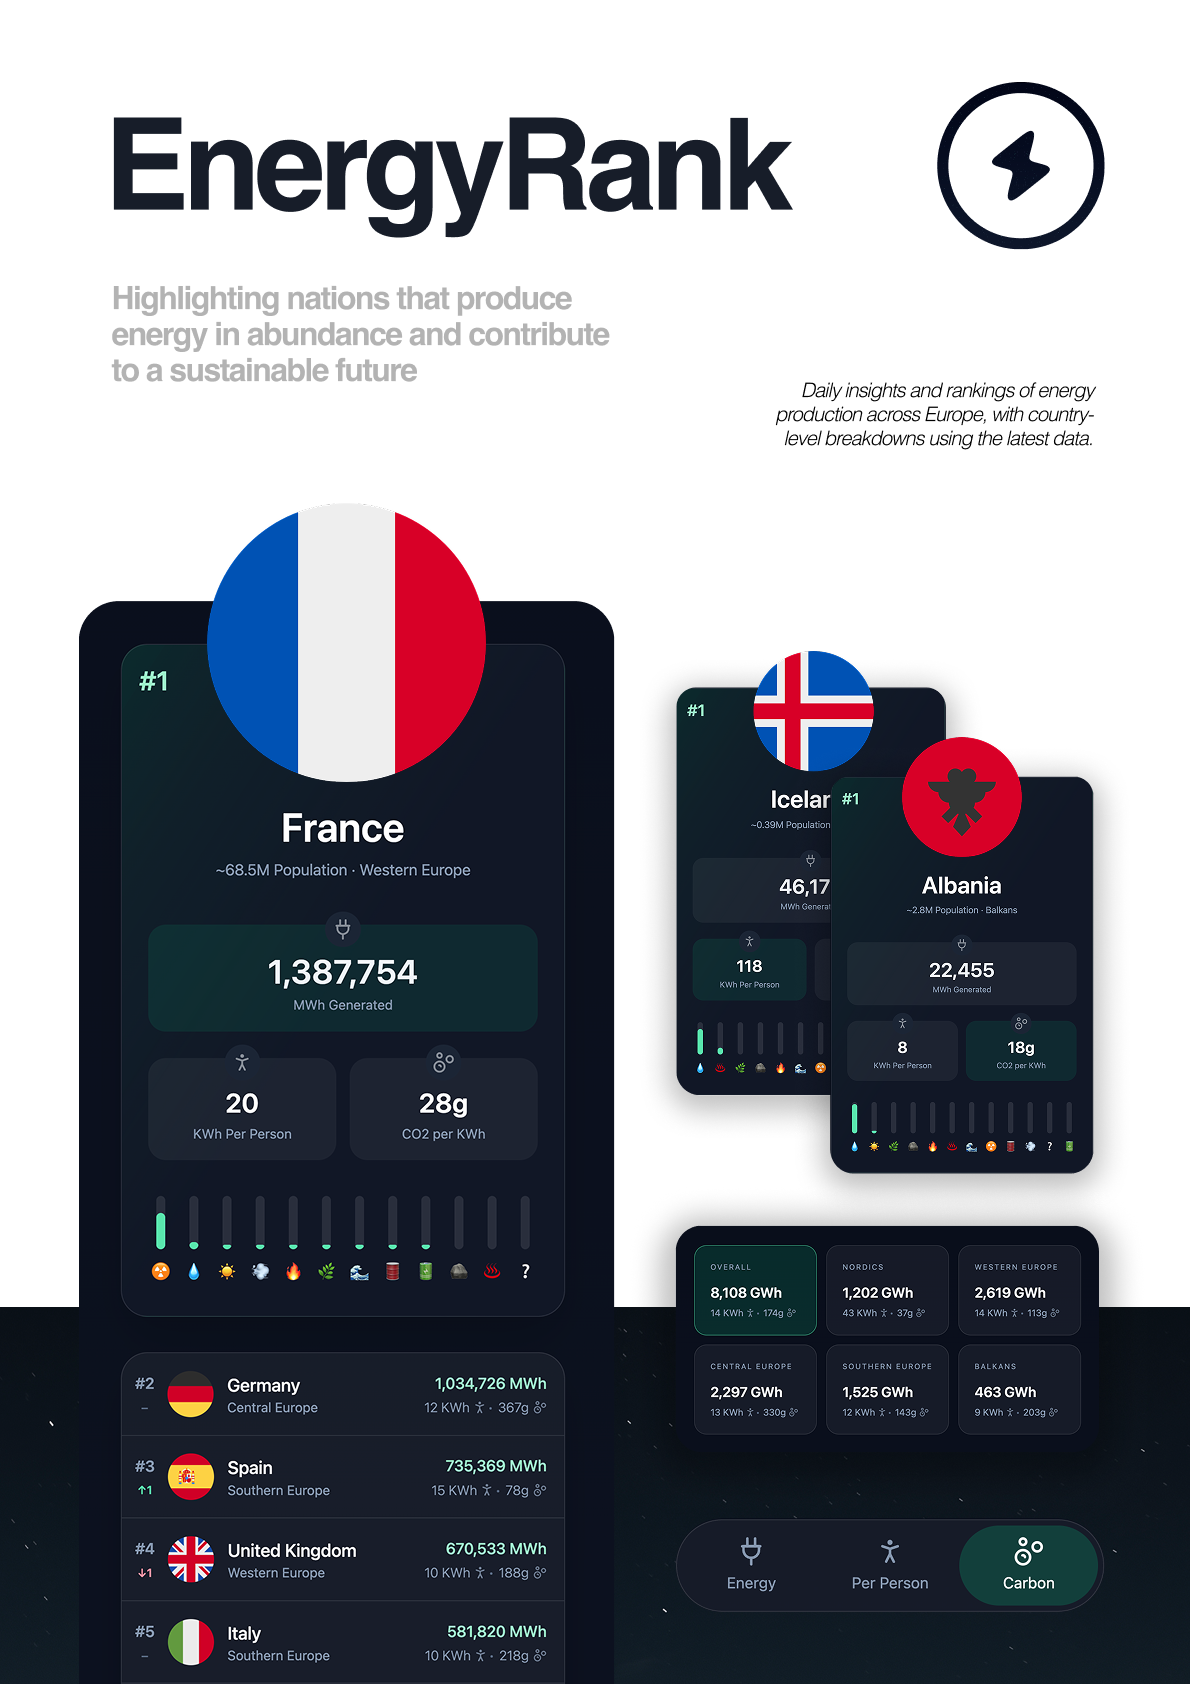
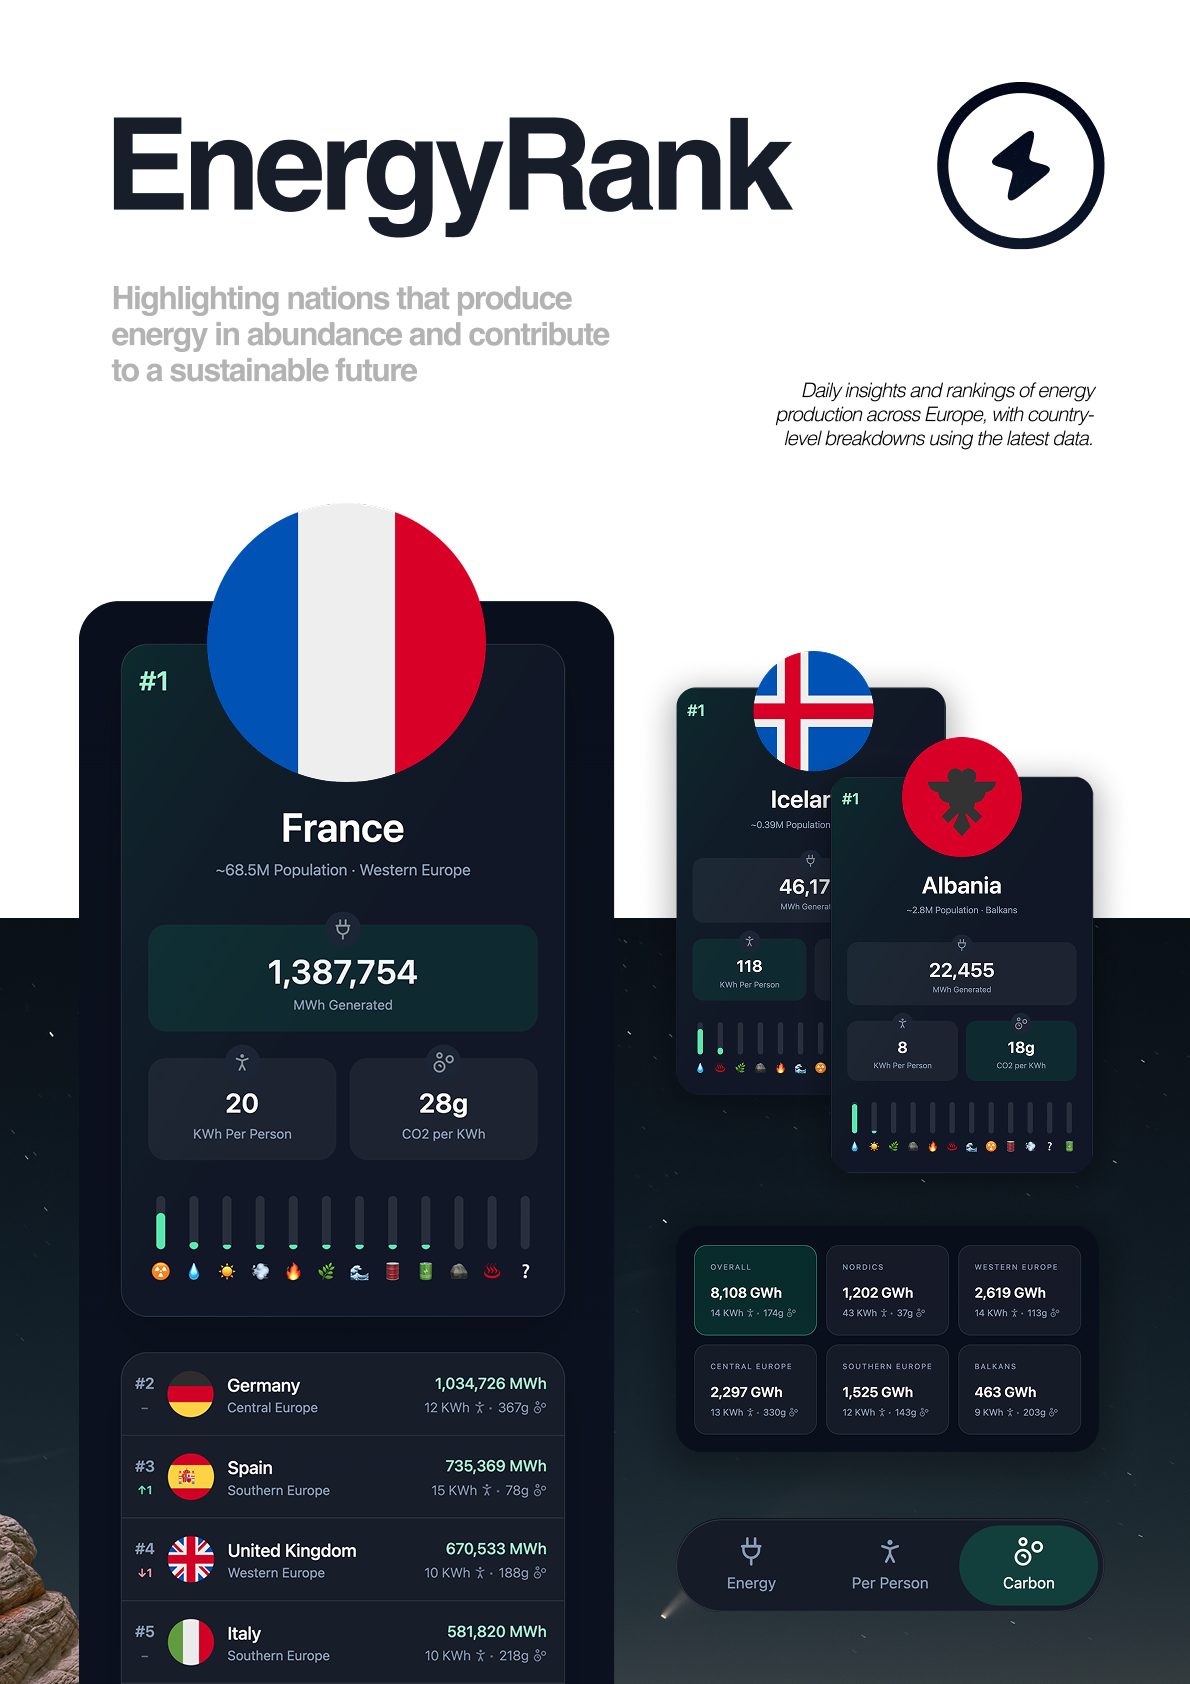
Update slides and licence key

diff --git a/index.tsx b/index.tsx
@@ -1300,7 +1300,7 @@ function App() {
       onTouchStartCapture={handleTouchCapture}
     >
       <Tldraw hideUi onMount={handleMount} licenseKey={
-        "tldraw-2026-07-26/WyJFb2NyeWQxVSIsWyIqIl0sMTYsIjIwMjYtMDctMjYiXQ.SRvt6PmZKkxVOnee3fVyAI6erE0QaQC0qKIP/m7NAbyNCy0XY+nIqkKTv0ewtb6nprtHaw21JgD+YYW2TkNHYQ"
+        "tldraw-luke-jackson-2031-08-03/WyJJWnYySkxINSIsWyIqLmx1a2VqYWNrc29ubi5jb20iXSw5LCIyMDMxLTA4LTAzIl0.wOfkL3EfWTE3YIs9H7/aFwVluxiidaSdD8Ym2NnF/Ch2LYoEs6FF/3gwRSCoiU7wZNcArAt67Y2bLWW84KpANg"
       } />
       {!isHomeFocused && (
         <button
